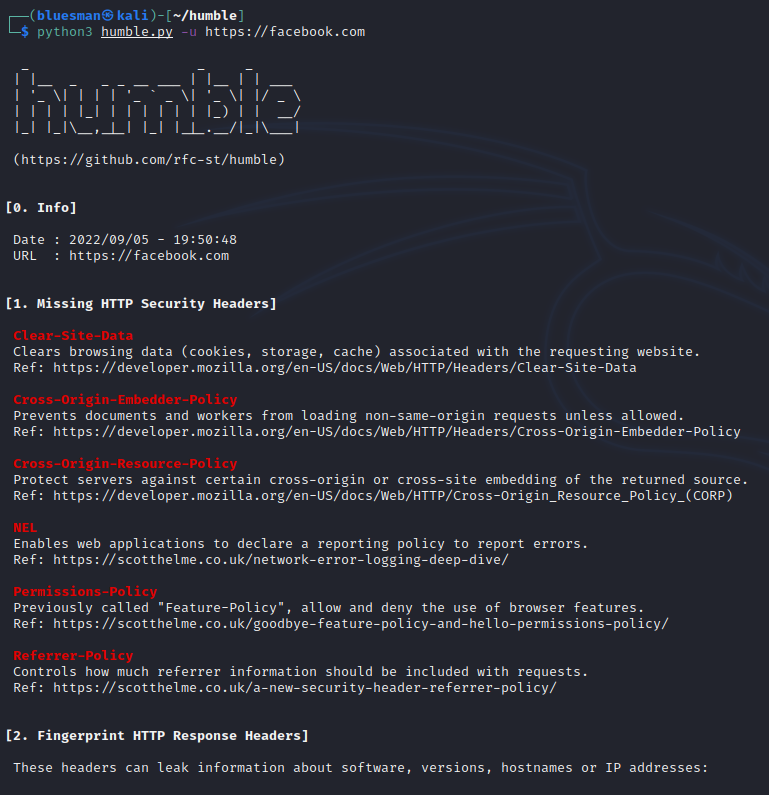
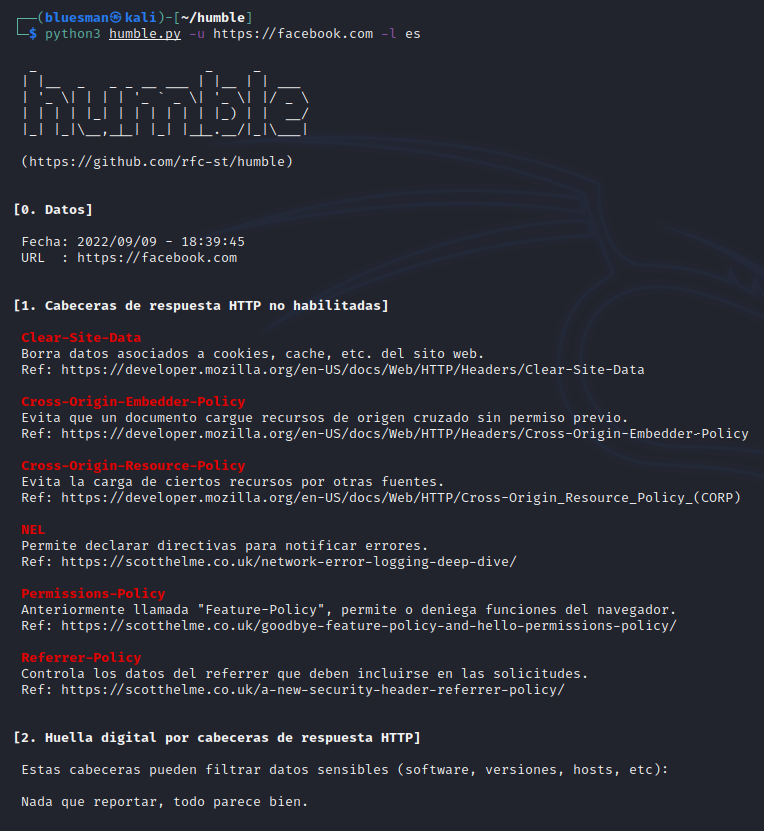
Update screenshots.

diff --git a/README.md b/README.md
@@ -67,7 +67,7 @@ HTTP Headers Analyzer<br />
 <img src="https://github.com/rfc-st/humble/blob/master/screenshots/humble_br.PNG" alt="Brief analysis + retrieved headers" width=70% height=70%>
 </p>
 <br />
-.: Full report (Linux)<br />
+.: Full report (Linux). Analysis in Spanish.<br />
 <p></p>
 <p align="center">
 <img src="https://github.com/rfc-st/humble/blob/master/screenshots/humble.PNG" alt="Full analysis" width=70% height=70%>
